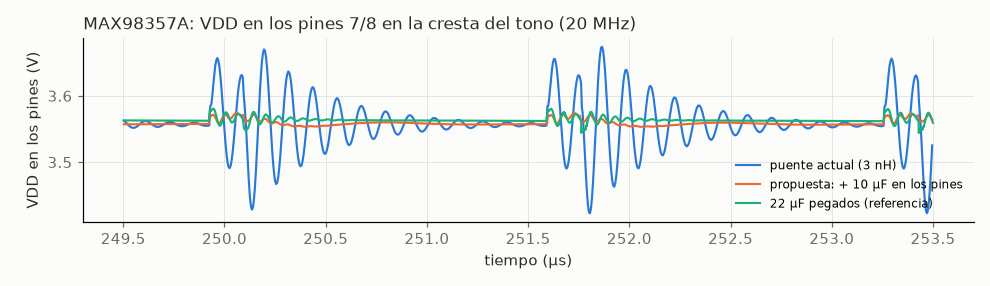
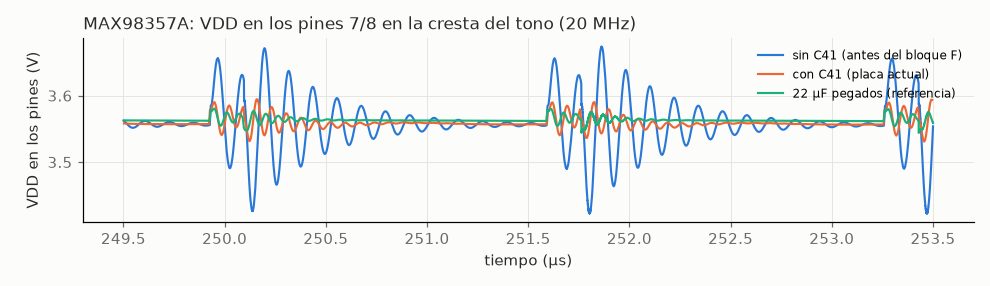
Test: simulación del amplificador con C41 y de los LED verdes con 1 kΩ
- max98357_vsys.cir: C41 (10 µF, ≈ 5 µF a 3,6 V) junto a los pines 7/8 con la
  conexión real del PCB (1,25 nH; peor caso 2 nH). Rizado en VDD 70 mV pp nominal y
  87 mV pp en el peor caso (puente de 5 nH), frente a 258 mV pp sin C41: PASS
  (≤ 200 mV pp). Pico por el puente de B.Cu 1,52 → 0,84 A.
- senales_i2c_led_ir.cir: R57/R58 de 1 kΩ, D4 y D5 a 0,47–0,92 mA: PASS.

Changed region(s): [[0.1212, 0.1678, 0.9697, 0.7273], [0.7273, 0.6993, 0.9394, 0.7273], [0.1212, 0.8112, 0.1515, 0.8392]]

diff --git a/Hardware/FurbyBoard/sim/analiza.py b/Hardware/FurbyBoard/sim/analiza.py
@@ -330,21 +330,22 @@ def bloque_max98357():
            f"{v(m['a_ispkrms']**2*4)} W; {v(m['a_ispk'])} A de pico en 4 Ω", "Informativo", None)
     t.fila("Corriente por el puente de B.Cu (media / pico)", f"{v(m['a_ipuavg'])} / {v(m['a_ipu'])} A",
            "≤ 0,7 A por vía en continua (2 vías por extremo: 1,4 A)", m["a_ipuavg"] <= 1.4)
-    t.fila("VDD en los pines 7/8 con el puente (3 nH, 10 mΩ): mínimo", f"{v(m['a_vddmin'])} V", "≥ 2,5 V", m["a_vddmin"] >= 2.5)
-    t.fila("Rizado de conmutación en los pines 7/8, puente de 3 nH / 5 nH",
+    t.fila("VDD en los pines 7/8 (puente de 3 nH, C41 a 1,25 nH): mínimo", f"{v(m['a_vddmin'])} V", "≥ 2,5 V",
+           m["a_vddmin"] >= 2.5)
+    t.fila("Rizado de conmutación en los pines 7/8 con C41: nominal (3 nH, 1,25 nH) / peor caso (5 nH, 2 nH)",
            f"{v(m['a_vddpp_pico']*1e3, 0)} / {v(m['c_vddpp_pico']*1e3, 0)} mV pp", "≤ 200 mV pp (rizado de la prueba de PSRR)",
            max(m["a_vddpp_pico"], m["c_vddpp_pico"]) <= 0.2)
+    t.fila("Diseño anterior al bloque F (sin C41, solo C26 junto a los pines)",
+           f"{v(m['d_vddpp_pico']*1e3, 0)} mV pp; mín. {v(m['d_vddmin'])} V", "≤ 200 mV pp (informativo: ya no aplica)", None)
     t.fila("Rizado en los pines con los 22 µF pegados (referencia sin puente)", f"{v(m['b_vddpp_pico']*1e3, 0)} mV pp",
            "≤ 200 mV pp", m["b_vddpp_pico"] <= 0.2)
-    t.fila("Propuesta: puente de 3 nH + 10 µF junto a los pines 7/8", f"{v(m['d_vddpp_pico']*1e3, 0)} mV pp; mín. {v(m['d_vddmin'])} V",
-           "≤ 200 mV pp", m["d_vddpp_pico"] <= 0.2)
     t.fila("VSYS en el relleno de In2 (lo que ve U3)", f"mín. {v(m['a_plmin'])} V", "≥ 2,3 V (VIN;LOAD del TPS63802)",
            m["a_plmin"] >= 2.3)
-    a, b, d = leer("max_puente.dat"), leer("max_directo.dat"), leer("max_propuesta.dat")
+    a, b, d = leer("max_puente.dat"), leer("max_directo.dat"), leer("max_sin_c41.dat")
     z = [recorte(x, 0.2495e-3, 0.2535e-3) for x in (a, b, d)]
     figura("max98357_vdd.png", "MAX98357A: VDD en los pines 7/8 en la cresta del tono (20 MHz)", [
-        ("VDD en los pines (V)", [(z[0]["time"], z[0]["v(vddf)"], "puente actual (3 nH)"),
-                                  (z[2]["time"], z[2]["v(vddf)"], "propuesta: + 10 µF en los pines"),
+        ("VDD en los pines (V)", [(z[2]["time"], z[2]["v(vddf)"], "sin C41 (antes del bloque F)"),
+                                  (z[0]["time"], z[0]["v(vddf)"], "con C41 (placa actual)"),
                                   (z[1]["time"], z[1]["v(vddf)"], "22 µF pegados (referencia)")], []),
     ], escala_x=1e6, etiqueta_x="tiempo (µs)")
     figura("max98357_vsys.png", "MAX98357A: VSYS en el relleno de In2 durante un periodo del tono", [
@@ -422,10 +423,10 @@ def bloque_senales():
     for clave, texto, diseño in (("i_d1", "D1 CHG (rojo, VBUS, 2,2 kΩ)", 1.4), ("i_d2", "D2 PG (verde, VBUS, 2,2 kΩ)", 1.4),
                                  ("i_d3", "D3 PROG (rojo, 3V3, 1,5 kΩ)", 1.0)):
         t.fila(f"LED {texto}", f"{v(m[clave]*1e3, 2)} mA", f"≥ 0,3 mA (diseño ≈ {v(diseño, 1)} mA)", m[clave] >= 0.3e-3)
-    for clave, texto, diseño in (("i_d4", "D4 PWR (verde, 3V3, 2,2 kΩ)", 0.6), ("i_d5", "D5 RUN (verde, 3V3, 1,5 kΩ)", 0.9)):
+    for clave, texto in (("i_d4", "D4 PWR (verde, 3V3, 1 kΩ)"), ("i_d5", "D5 RUN (verde, 3V3, 1 kΩ)")):
         lo, hi = m[clave + "t"], m[clave + "b"]
         t.fila(f"LED {texto}, VF 3,1 / 2,6 V a 5 mA", f"{v(lo*1e3, 2)}–{v(hi*1e3, 2)} mA",
-               f"≥ 0,3 mA (diseño en NOTAS: ≈ {v(diseño, 1)} mA)", lo >= 0.3e-3)
+               "≥ 0,3 mA (diseño: 0,5–0,9 mA)", lo >= 0.3e-3)
     p_pico = m["ir_ih"] ** 2 * 22
     t.fila("IR: corriente del LED con VSYS 4,4 / 3,0 V", f"{v(m['ir_ih']*1e3, 0)} / {v(m['ir_il']*1e3, 0)} mA (VF {v(m['ir_vf'])} V)",
            "Informativo (≈ 100 mA de diseño)", None)
